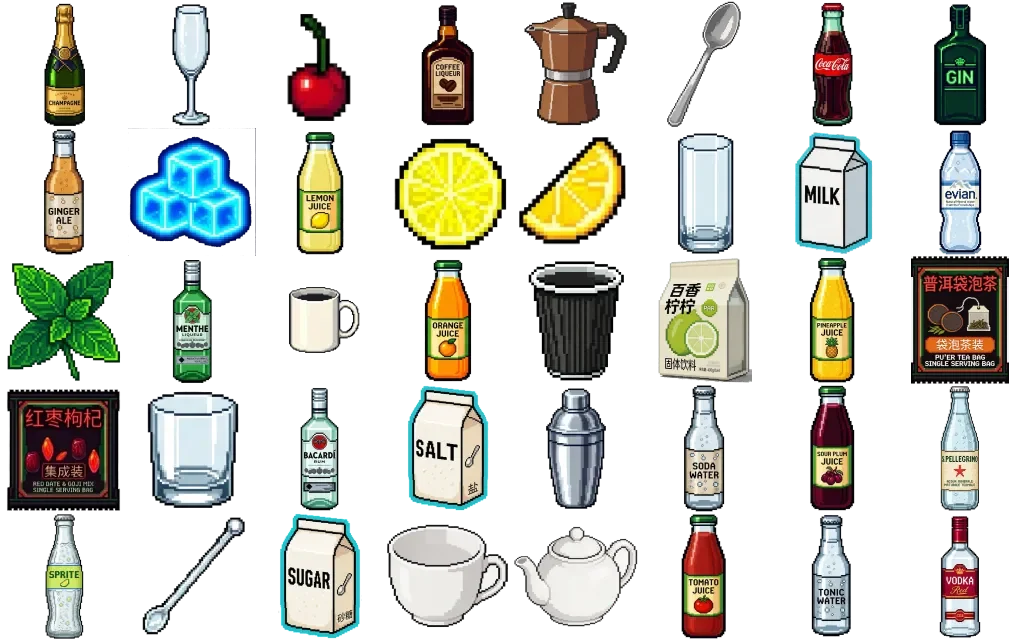
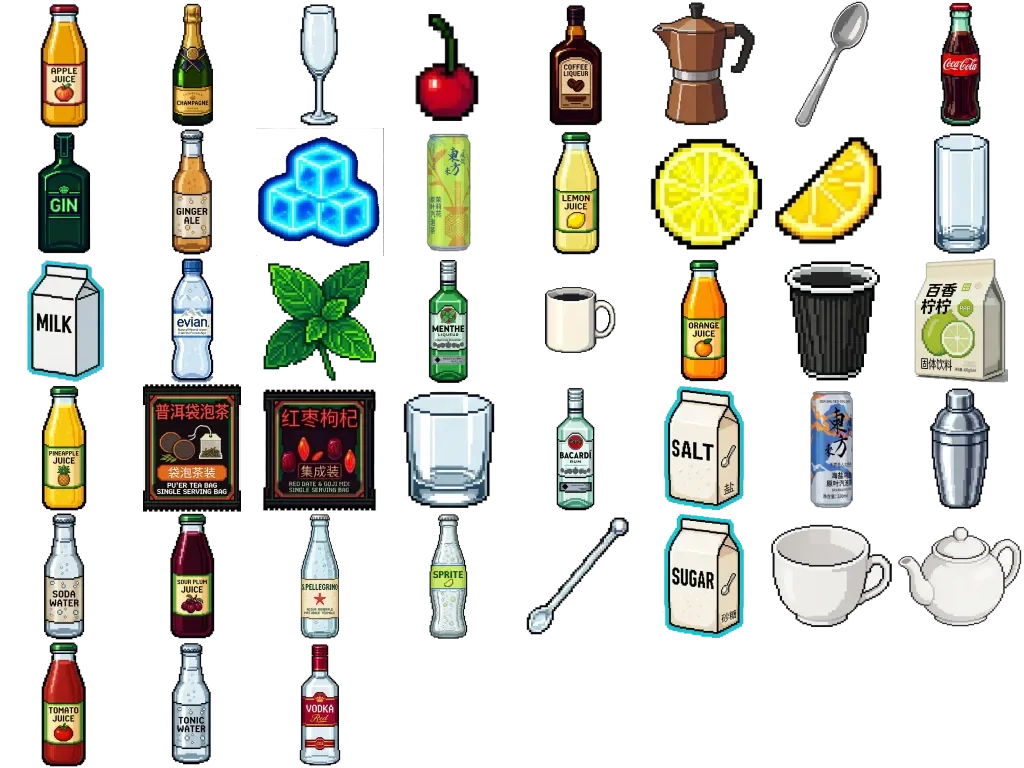
@ fix: 卡片横屏 2列不变形 + 精灵图纳新 43图标
- 任务大厅 sm:grid-cols-3 → md:grid-cols-3，手机横屏保持 2 列
- 精灵图 8x5→8x6(48格)，纳入 apple_juice/jasmine_tea/sea_salt_oolong_tea
@

diff --git a/src/App.jsx b/src/App.jsx
@@ -450,7 +450,7 @@ function MissionHall({ missions, onSelectMission, isAudioOn, toggleAudio, toggle
             ))}
           </div>
         </div>
-        <div className="relative z-20 flex-1 grid grid-cols-2 sm:grid-cols-3 gap-1.5 sm:gap-2 md:gap-4 overflow-y-auto custom-scrollbar">
+        <div className="relative z-20 flex-1 grid grid-cols-2 md:grid-cols-3 gap-1.5 sm:gap-2 md:gap-4 overflow-y-auto custom-scrollbar">
           {filteredMissions.map((mission, index) => {
             const isFlipped = flippedMissions.includes(mission.id);
             const status = missionResults[mission.id];